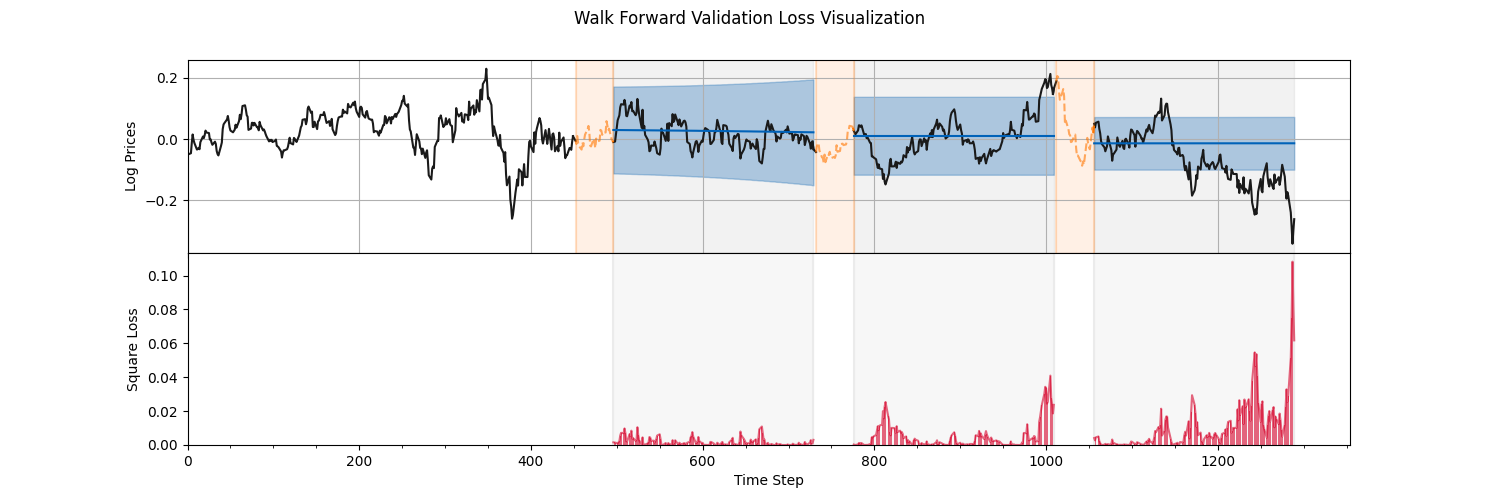
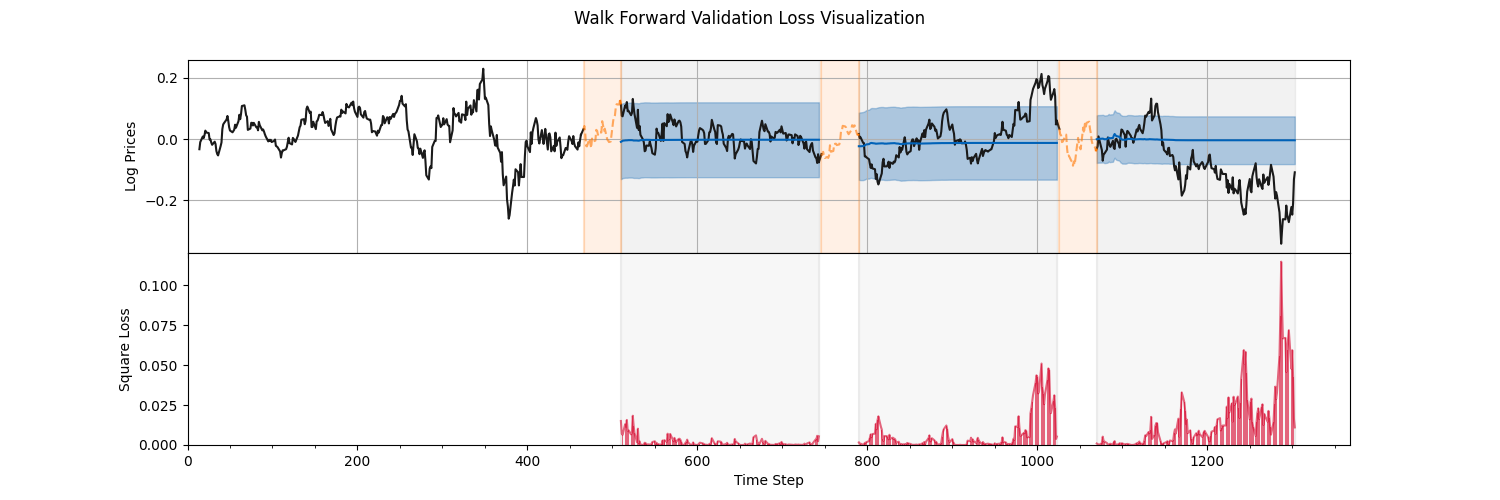
Adding Skip Prediction

diff --git a/examples/simple_example.py b/examples/simple_example.py
@@ -3,7 +3,7 @@ import pandas as pd
 import matplotlib.pyplot as plt
 import itertools
 
-from utils.data_preprocessing import load_transform_data
+from utils.data_preprocessing import load_transform_data, parse_series_time
 from utils.data_structure import DisplayPrediction, pack_data
 from utils.data_visualization import visualize_time_series, visualize_walk_forward, show_result_fold
 from utils.others import create_folder, save_fold_data, load_fold_data
@@ -12,12 +12,14 @@ from experiments.algo_dict import algorithms_dic
 from experiments.eval_methods import prepare_dataset, walk_forward
 from experiments.calculation import PerformanceMetric
 
-def get_data_example(return_lag):
+def get_data_example(return_lag, skip):
     metal_type = "aluminium"
 
-    features, log_prices = load_transform_data(metal_type, return_lag=return_lag) 
+    features, log_prices = load_transform_data(metal_type, return_lag, skip) 
     log_prices = log_prices[["Price"]]
-    features, log_prices = features.head(1000), log_prices.head(1000)
+
+    # We will have 1000 datapoints for training and testing
+    features, log_prices = features.head(1000+skip), log_prices.head(1000+skip)
     len_data = len(features)
 
     first_day = features["Date"].iloc[0]
@@ -25,17 +27,26 @@ def get_data_example(return_lag):
     features = features[["Date"]]
     return features, log_prices, first_day, len_data
 
-def example_plot_all_algo_lag(algo_name, plot_gap=True, load_path=None, is_save=True, is_load=False):
-    hyperparam, algo_class = algorithms_dic[algo_name]
+def pred_date_conversion(return_lag, skip):
+    """
+    The given a skip, the date of the prediction of the model has to 
+        be added forward to match the real time
+    """
+    no_skip_features, _, first_day, _ = get_data_example(return_lag, 0)
+    no_skip_date, _ = parse_series_time(no_skip_features["Date"].to_list(), first_day)
+    
+    skip_features, _, first_day2, _ = get_data_example(return_lag, skip)
+    skip_date, _ = parse_series_time(skip_features["Date"].to_list(), first_day2)
+    skip_date = skip_date[skip:]
 
-    return_lag = 0
-    len_inp = hyperparam["len_inp"]
-    len_out = hyperparam["len_out"]
-    len_predict_show = 100
-    features, log_prices, first_day, len_data = get_data_example(return_lag)
+    return dict(zip(no_skip_date, skip_date))
+
+
+def create_task(len_inp, len_out, return_lag, len_pred_show, skip):
+    features, log_prices, first_day, len_data = get_data_example(return_lag, skip)
     splitted_data = prepare_dataset(
         features, first_day, log_prices, 
-        len_inp=len_data-len_predict_show-return_lag, len_out=len_predict_show, return_lag=0, 
+        len_inp=len_data-len_pred_show, len_out=len_pred_show, return_lag=0, 
         convert_date=True, offset=-1, is_show_progress=False, num_dataset=-1, is_padding=False
     )     
     features_train, log_prices_train, feature_test, log_prices_test = splitted_data[0]
@@ -44,15 +55,22 @@ def example_plot_all_algo_lag(algo_name, plot_gap=True, load_path=None, is_save=
         len_inp=len_inp, len_out=len_out, return_lag=return_lag, 
         convert_date=False, offset=1, is_show_progress=False, num_dataset=-1, is_padding=False
     )  
-
     pred_dataset = prepare_dataset(
         feature_test, first_day, log_prices_test, 
         len_inp=len_inp, len_out=len_out, return_lag=return_lag, 
         convert_date=False, offset=len_out, is_show_progress=False, num_dataset=-1, is_padding=False
     )
-    
-    all_date_pred = list(itertools.chain.from_iterable([point.data_out["Date"].to_list() for point in pred_dataset]))
-    true_date = feature_test["Date"].to_list()
+    return (features_train, log_prices_train, feature_test, log_prices_test), (train_dataset, pred_dataset)
+
+def prepare_task(task, len_inp, return_lag, skip, plot_gap):
+    _, _, feature_test, log_prices_test = task[0]
+    _, pred_dataset = task[1]
+
+    convert_date = pred_date_conversion(return_lag, skip)
+    all_date_pred = list(itertools.chain.from_iterable(
+        [point.data_out["Date"].map(convert_date).to_list() for point in pred_dataset]
+    ))
+    true_date = feature_test["Date"].map(convert_date).to_list()
     true_price = log_prices_test["Price"].to_list() 
     
     if plot_gap:
@@ -62,6 +80,24 @@ def example_plot_all_algo_lag(algo_name, plot_gap=True, load_path=None, is_save=
     else:
         missing_data = ([], [])
     
+    return all_date_pred, true_date, true_price, missing_data, convert_date
+
+def example_plot_all_algo_lag(algo_name, plot_gap=True, load_path=None, is_save=True, is_load=False):
+    hyperparam, algo_class = algorithms_dic[algo_name]
+
+    return_lag = 22
+    skip = 4
+    len_inp = hyperparam["len_inp"]
+    len_out = hyperparam["len_out"]
+    len_pred_show = 100
+
+    task = create_task(len_inp, len_out, return_lag, len_pred_show, skip)
+    helper = prepare_task(task, len_inp, return_lag, skip, plot_gap)
+
+    features_train, log_prices_train, feature_test, log_prices_test = task[0]
+    train_dataset, pred_dataset = task[1]
+    all_date_pred, true_date, true_price, missing_data, convert_date = helper
+
     if load_path is not None and is_load:
         model = algo_class([], hyperparam)
         parent, file_name = load_path
@@ -74,17 +110,22 @@ def example_plot_all_algo_lag(algo_name, plot_gap=True, load_path=None, is_save=
         parent, file_name = load_path
         create_folder(f"save/{parent}")
         model.save(f"save/{parent}/{file_name}")
-
+    
     pred = model.predict(pred_dataset, len(all_date_pred), all_date_pred, ci=0.9)
-
-    ARIMA_pred = DisplayPrediction(pred, name=algo_name, color="p", is_bridge=False)
+    model_pred = DisplayPrediction(pred, name=algo_name, color="p", is_bridge=False)
 
     true_pred = DisplayPrediction(
         pack_data(true_price[len_inp+return_lag:], [], [], true_date[len_inp+return_lag:]),
         name="True Value", is_bridge=False
     )
+
+    full_feature = features_train.copy()
+    full_feature["Date"] = full_feature["Date"].map(convert_date)
+
     visualize_time_series(
-        ((features_train, log_prices_train), [true_pred, ARIMA_pred]), "k", missing_data, "o", title="Log Lag over Time")
+        ((full_feature, log_prices_train), [true_pred, model_pred]), 
+        "k", missing_data, "o", title="Log Lag over Time"
+    )
         
     plt.show()
 
@@ -93,10 +134,12 @@ def example_plot_walk_forward(algo_name, base_name=None):
     hyperparam, algo_class = algorithms_dic[algo_name]
 
     return_lag = 22
+    skip = 10
     len_inp = hyperparam["len_inp"]
     len_out = hyperparam["len_out"]
-    features, log_prices, first_day, len_data = get_data_example(return_lag)
-        
+    features, log_prices, first_day, len_data = get_data_example(return_lag, skip)
+    convert_date = pred_date_conversion(return_lag, skip)
+ 
     metric = PerformanceMetric()
 
     if base_name is not None:
@@ -110,14 +153,18 @@ def example_plot_walk_forward(algo_name, base_name=None):
             train_offset=1, 
             test_offset=len_out, 
             return_lag=return_lag, 
+            convert_date=convert_date,
             is_train_pad=True, 
             is_test_pad=False 
         )
         save_fold_data(fold_result, algo_name)
 
+    # Since we added more datapoint to not waste data
     fig, ax = visualize_walk_forward(
-        features, log_prices, fold_result, 
+        features.iloc[:len(features)-skip], log_prices, fold_result, convert_date,
         lag_color="o", pred_color="b", below_err="r"
     )
     fig.savefig("img/walk_forward.png")
     plt.show()
+
+

diff --git a/test/test_load_data.py b/test/test_load_data.py
@@ -1,6 +1,8 @@
 import numpy as np
-from utils.data_preprocessing import load_transform_data, prepare_dataset
+from utils.data_preprocessing import load_transform_data
+from experiments.eval_methods import prepare_dataset
 from utils.data_structure import TrainingPoint
+from pandas._testing import assert_frame_equal
 
 import unittest
 from unittest.mock import patch
@@ -9,7 +11,7 @@ from test.test_utils import generate_fake_data, fake_price_data, fake_first_day
 class LoadingDataLag(unittest.TestCase): 
 
     def setUp(self):
-        self.len_inp, self.len_out, self.lag_num = 3, 2, 6
+        self.len_inp, self.len_out, self.lag_num, self.skip = 3, 2, 6, 5
         self.the_data = generate_fake_data()
         self.the_data["Price"] = np.log(self.the_data["Price"].to_numpy())
         self.the_data["Date_str"] = self.the_data["Date"]
@@ -54,11 +56,39 @@ class LoadingDataLag(unittest.TestCase):
     @patch("utils.data_preprocessing.load_metal_data", return_value=generate_fake_data())
     def test_lag_load_data(self, mock):
         feature, log_prices = load_transform_data(None, self.lag_num)
+        feature_no_lag, _ = load_transform_data(None, 0)
         true_data = np.array(fake_price_data, dtype=np.float32)
         expected_out = []
         for i in range(len(true_data)-self.lag_num):
             expected_out.append(true_data[i+self.lag_num] - true_data[i])
         self.assertEqual(log_prices["Price"].to_list(), expected_out)
+        assert_frame_equal(feature_no_lag.head(len(feature_no_lag)-self.lag_num), feature)
+    
+    @patch("utils.data_preprocessing.load_metal_data", return_value=generate_fake_data())
+    def test_simple_load_data_skip(self, mock):
+        feature, log_prices = load_transform_data(None, 0, skip=self.skip)
+        feature_no_lag, _ = load_transform_data(None, 0)
+        true_data = np.array(fake_price_data, dtype=np.float32)
+        expected_out = []
+        for i in range(len(true_data)-self.skip):
+            expected_out.append(true_data[i+self.skip]) 
+        self.assertEqual(log_prices["Price"].to_list(), expected_out)
+        assert_frame_equal(feature_no_lag.head(len(feature_no_lag)-self.skip), feature)
+    
+    @patch("utils.data_preprocessing.load_metal_data", return_value=generate_fake_data())
+    def test_simple_load_data_skip_lag(self, mock):
+        feature, log_prices = load_transform_data(None, self.lag_num, skip=self.skip)
+        feature_no_lag, _ = load_transform_data(None, 0)
+        true_data = np.array(fake_price_data, dtype=np.float32)
+        expected_out2 = []
+        for i in range(len(true_data)-self.lag_num):
+            expected_out2.append(true_data[i+self.lag_num] - true_data[i])
+        expected_out = []
+        for i in range(len(expected_out2)-self.skip):
+            expected_out.append(expected_out2[i+self.skip]) 
+        self.assertEqual(log_prices["Price"].to_list(), expected_out)
+        assert_frame_equal(feature_no_lag.head(len(feature_no_lag)-self.skip-self.lag_num), feature)
+    
 
     @patch("utils.data_preprocessing.load_metal_data", return_value=generate_fake_data())
     def test_no_lag_split_partion_no_pad(self, mock):

diff --git a/experiments/algo_dict.py b/experiments/algo_dict.py
@@ -14,21 +14,16 @@ algorithms_dic = {
         is_date=False, 
         order=(10, 2, 5), 
     ), ARIMAModel],
-    "ARIMA2": [Hyperparameters(
-        len_inp=0, 
-        len_out=20, 
-        is_date=False, 
-        order=(5, 4, 5), 
-    ), ARIMAModel],
-    "ARMA": [Hyperparameters(
-        len_inp=0, 
-        len_out=20, 
-        is_date=False, 
-        order=(5, 0, 5), 
-    ), ARIMAModel],
     "Mean": [Hyperparameters(
         len_inp=0, 
         len_out=10, 
+        is_date=False, 
+        dist="Gaussian",
+        is_verbose=False
+    ), IIDDataModel],
+    "Mean-Test": [Hyperparameters(
+        len_inp=3, 
+        len_out=2, 
         is_date=False, 
         dist="Gaussian",
         is_verbose=False
@@ -38,16 +33,6 @@ algorithms_dic = {
         len_out=1, 
         lr=0.1,
         optim_iter=100,
-        jitter=1e-4,
-        is_time_only=False,
-        is_date=True, 
-        kernel=kernels.ScaleKernel(kernels.MaternKernel())
-    ), IndependentGP],
-    "GP-2": [Hyperparameters(
-        len_inp=10, 
-        len_out=1, 
-        lr=0.1,
-        optim_iter=200,
         jitter=1e-4,
         is_time_only=False,
         is_date=True, 

diff --git a/experiments/eval_methods.py b/experiments/eval_methods.py
@@ -93,7 +93,7 @@ def prepare_dataset(X, first_day, y, len_inp,
     return all_subset
 
 def walk_forward(X, y, algo_class, model_hyperparam, loss, size_train, 
-            size_test, train_offset, test_offset, return_lag, 
+            size_test, train_offset, test_offset, return_lag, convert_date,
             is_train_pad=True, is_test_pad=False, intv_loss=None):
     """
     Performing walk forward testing (k-fold like) of the models
@@ -173,10 +173,10 @@ def walk_forward(X, y, algo_class, model_hyperparam, loss, size_train,
             offset=test_offset,is_padding=is_test_pad, convert_date=False
         )
         all_date_pred = list(
-            itertools.chain.from_iterable([point.data_out["Date"].to_list() for point in test_dataset])
+            itertools.chain.from_iterable([point.data_out["Date"].map(convert_date).to_list() for point in test_dataset])
         )
 
-        true_date = X_test["Date"].to_list()
+        true_date = X_test["Date"].map(convert_date).to_list()
         true_price = y_test["Price"].to_list() 
         
         model = algo_class(train_dataset, model_hyperparam)         

diff --git a/utils/data_preprocessing.py b/utils/data_preprocessing.py
@@ -84,7 +84,7 @@ def transform_full_data(full_data, is_drop_nan=False):
     full_data["Price"] = np.log(full_data["Price"])
     return full_data.iloc[:, :-1], full_data.iloc[:, [0,-1]]
 
-def load_transform_data(metal_type, return_lag, is_drop_nan=False):
+def load_transform_data(metal_type, return_lag, skip=0, is_drop_nan=False):
     """
     Loading and Transform the data in one function 
         to get the dataset and label. We will assume log-price. 
@@ -100,7 +100,8 @@ def load_transform_data(metal_type, return_lag, is_drop_nan=False):
     data_all = load_metal_data(metal_type)
     X, y = transform_full_data(data_all, is_drop_nan=is_drop_nan)
     y = cal_lag_return(y, return_lag)
-    return X[:len(X)-return_lag], y[:len(X)-return_lag]
+    X, y = X[:len(X)-return_lag], y[:len(y)-return_lag]
+    return X[:len(X)-skip], y[skip:]
 
 def df_to_numpy(data, label):
     """

diff --git a/utils/data_visualization.py b/utils/data_visualization.py
@@ -127,13 +127,15 @@ def plot_area(axs, x, y, miss, start_ind, end_ind, lag_color):
     )
 
 
-def visualize_walk_forward(full_data_x, full_data_y, fold_result, 
+def visualize_walk_forward(full_data_x, full_data_y, fold_result, convert_date_dict,
         lag_color="o", pred_color="p", below_err="g"):
+
     convert_date = lambda x: x["Date"].to_list()
     convert_price = lambda x: x["Price"].to_list()
     first_day = full_data_x["Date"][0] 
 
     x, _ = parse_series_time(convert_date(full_data_x), first_day)
+    x = list(map(lambda a: convert_date_dict[a], x))
     y = convert_price(full_data_y)
     get_first_day = lambda df: df["x"][0]
 
